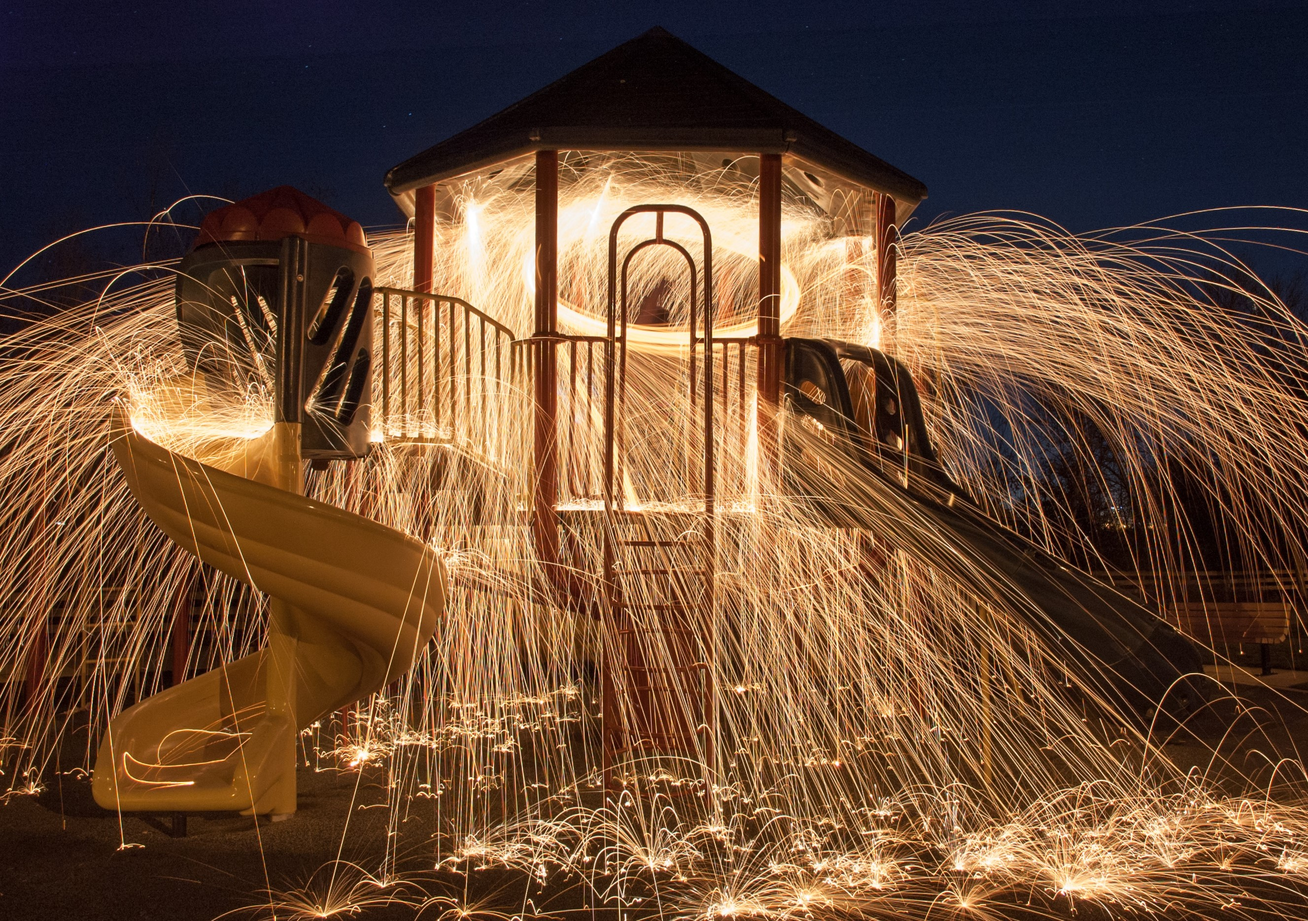
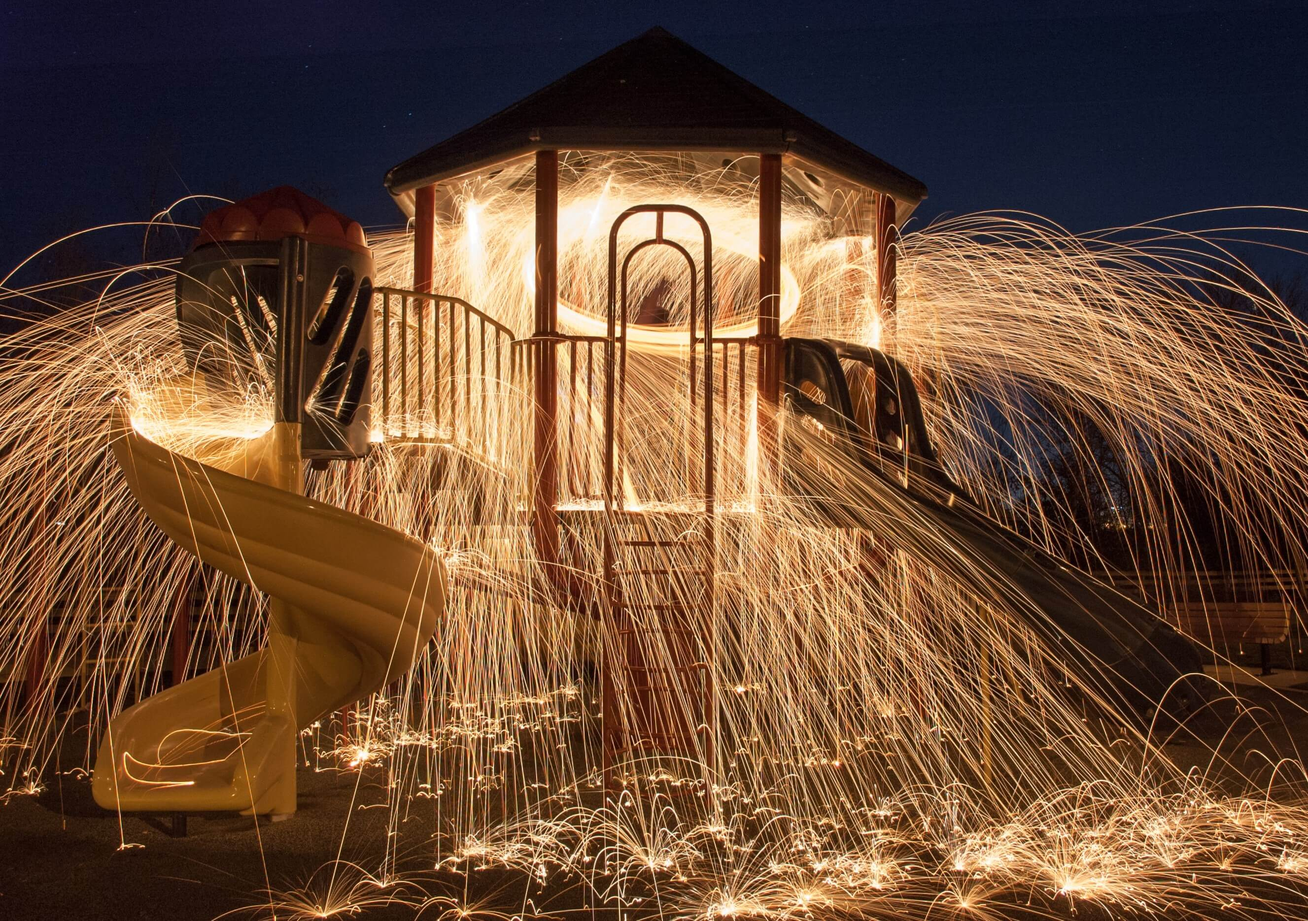
optimized photos

diff --git a/HW3/public/index.html b/HW3/public/index.html
@@ -53,8 +53,8 @@
 			<h2 id="biography">Biography</h2>
 			<p>
 				I'm a <b>Cognitive Science Machine Learning</b> and <b>Computer Engineering</b> student at <strong>UCSD</strong>. I want to go 
-				into the field of brain computer interfaces and software engineering. I start programming projects for 
-				various topics of interest, such as:
+				into the field of brain computer interfaces and software engineering. I start programming projects for various topics of interest, 
+				such as:
 			</p>
 			<ul>
 				<li>Discord Bots</li>

diff --git a/HW3/public/styles/main.css b/HW3/public/styles/main.css
@@ -78,7 +78,6 @@ header nav{
 .grey-section{
   background-color: lightgrey;
   display: flex;
-  justify-content: center;
   flex-direction: column;
   padding: 20px 15vw;
   margin: 5px;
@@ -102,10 +101,6 @@ header nav{
   padding: 20px 15vw;
   margin: 5px;
   min-height: 100vh;
-}
-
-.white-section table{
-  width: 50vm;
 }
 
 .white-section ul{
